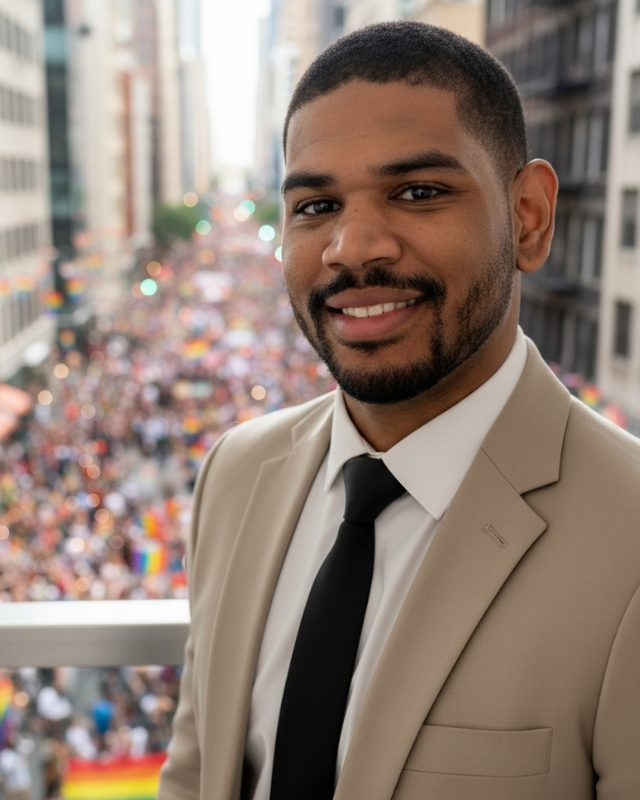
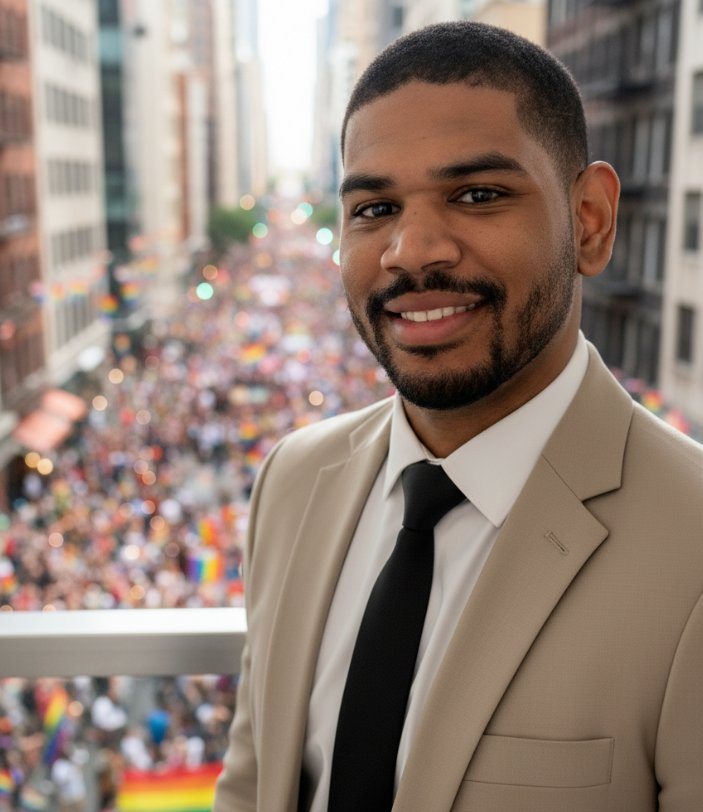
Update About Me copy, use full-size headshot, align trauma wording
- About Me on /philosophy now matches Joshua's latest About Me.md word for word
  (new therapy and hospital psychiatry history, couples section, expanded
  credentials and trauma note, new closing line)
- Headshot replaced with the uncropped original (703x812, optimized JPEG)
- Men's page: 'trauma-focused' -> 'trauma-informed' to match the trauma note

Claude-Session: https://claude.ai/code/session_012eU98KAtg2tEvrfkn35TgC

diff --git a/pages/philosophy.tsx b/pages/philosophy.tsx
@@ -92,10 +92,10 @@ export default function PhilosophyPage() {
                   <Image
                     src={headshot.src}
                     alt={headshot.alt}
-                    width={640}
-                    height={800}
+                    width={703}
+                    height={812}
                     sizes="256px"
-                    className="h-80 w-64 border-2 border-[#CBB26A] object-cover"
+                    className="h-auto w-64 border-2 border-[#CBB26A]"
                   />
                 ) : (
                   <div className="flex h-80 w-64 items-center justify-center border-2 border-[#3E6830] bg-[#0A1D08]">
@@ -120,10 +120,14 @@ export default function PhilosophyPage() {
                 <p>I watched her do it, and honestly, it scared me. I saw how much she gave. I didn&apos;t want that for myself.</p>
                 <p>But in high school, it started happening to me anyway. People kept telling me things. Not because I could fix anything. I couldn&apos;t. They told me because I listened, and they could feel that I was really hearing them.</p>
                 <p>So I tried to go another way. In undergrad I studied recreation therapy. In grad school I went into recreation management. For my thesis, I studied bathhouses and sexually transmitted infections among gay men and men who have sex with men.</p>
-                <p>I wanted to include trans men in that study, and I wasn&apos;t able to. That stayed with me. It&apos;s part of why I make room for the people that research and therapy so often leave out.</p>
+                <p>I wanted to include trans men in that study, and I wasn&apos;t able to. That stayed with me. It&apos;s part of why I make room for the people who research and therapy so often leave out.</p>
                 <p>My grad advisor read my work and said, &quot;This isn&apos;t recreation. This is social work.&quot;</p>
                 <p>I finished that degree anyway. But my advisor&apos;s words stuck with me, along with everyone else who had called me a social worker long before I was ready to hear it. At the end of my grad program, I finally listened. I went to social work school.</p>
                 <p>So social work doesn&apos;t feel like a job to me. It&apos;s not what I do. It&apos;s who I am. I think I got that from my mom.</p>
+                <p>What I do is therapy, and I don&apos;t take that lightly. It&apos;s a responsibility. When we work together, I&apos;m building a professional relationship with you, one you can lean on for support.</p>
+                <p>After social work school, I spent nine years in hospital psychiatry: six with teens, and three with people of all ages. I worked with people living with some of the most serious mental health conditions, like schizophrenia, bipolar disorder, major depression, borderline personality disorder, and severe anxiety. I sat with people having thoughts of suicide, thoughts of hurting others, and active psychosis.</p>
+                <p>That shapes how I show up now. Hard thoughts don&apos;t scare me. If you tell me something heavy, I won&apos;t flinch or panic. I&apos;ll stay with you, and we&apos;ll figure out together what you need.</p>
+                <p>For the last three years, I&apos;ve worked in outpatient therapy with queer people and queer couples. That&apos;s where you&apos;ll find me now.</p>
               </div>
             </div>
             <div>
@@ -143,20 +147,29 @@ export default function PhilosophyPage() {
                 <p>In undergrad, I did my recreation therapy internship at a substance use treatment center. In grad school, while I studied recreation management, I worked at a substance use treatment center. And in social work school, my internship was at one too. Almost all of my training happened in substance use care.</p>
                 <p>I still do this work today. I see people at every stage:</p>
                 <ul className="list-disc space-y-2 pl-6">
-                  <li>People who are using right now and aren&apos;t sure they want to stop</li>
-                  <li>People who are thinking about quitting</li>
-                  <li>People who are in recovery</li>
+                  <li>People who are <strong className="text-[#CCDEE0]">using right now</strong> and aren&apos;t sure they want to stop</li>
+                  <li>People who are <strong className="text-[#CCDEE0]">thinking about quitting</strong></li>
+                  <li>People who are <strong className="text-[#CCDEE0]">in recovery</strong></li>
                 </ul>
                 <p>That includes chemsex. Nothing here needs a disclaimer.</p>
-                <p>You don&apos;t have to live a sober life to work with me. I understand use. Every behavior we have serves us in some way. We do it because we think it will make life better. And every behavior has a cost. So together, we look at it: Is the cost worth paying? Sometimes it is. I get that.</p>
-                <p>One thing I do ask: come to session sober. If you show up high or drunk, I&apos;ll end the session. That&apos;s not a punishment. It&apos;s the standard of care, and you just won&apos;t get much out of therapy that way. We&apos;ll pick it back up next time.</p>
+                <p>You don&apos;t have to live a sober life to work with me. I understand use, and the choices behind it. Every behavior we have serves us in some way. We do it because we think it will make life better. And every behavior has a cost. So together, we look at it: Is the cost worth paying? Sometimes it is. I get that.</p>
+                <p>One thing I do ask: come to the session sober. If you show up high or drunk, I&apos;ll end the session. That&apos;s not a punishment. It&apos;s the standard of care, and you just won&apos;t get much out of therapy that way. We&apos;ll pick it back up next session.</p>
+              </div>
+            </div>
+            <div>
+              <h3 className="mb-4 text-xl font-bold text-[#CBB26A]">Couples and relationships</h3>
+              <div className="space-y-4">
+                <p>Most of the couples I see have at least one partner with ADHD or autism. When two brains work differently, love can start to feel like a constant mix-up. One of you feels ignored. The other feels nagged. Neither of you is the problem. You&apos;re just wired differently, and no one ever showed you how to bridge that.</p>
+                <p>This is where I use Emotionally Focused Therapy (EFT) the most. We slow things down and look at the feelings and needs underneath the fights, so you can find your way back to each other.</p>
+                <p>I also welcome polyamorous relationships, with three or more partners. Your relationship is yours to design. You won&apos;t have to defend its shape in my office.</p>
+                <p>One rule in couples work: I don&apos;t keep secrets between partners. Anything you tell me may be shared with your partner or partners. If someone misses a session, I&apos;ll start the next one by asking what questions they have, and I&apos;ll ask the rest of you to answer as honestly as you can. If something important gets left out, I&apos;ll fill in the gaps. Everyone in the relationship should be able to trust what happens in the room.</p>
               </div>
             </div>
             <div>
               <h3 className="mb-4 text-xl font-bold text-[#CBB26A]">What it&apos;s like to work with me</h3>
               <div className="space-y-4">
                 <p>I&apos;m warm, I&apos;m direct, and I curse sometimes. I try to filter it, but every once in a while it slips out.</p>
-                <p>Being direct means you&apos;ll never have to guess what I&apos;m thinking. If I notice something, I&apos;ll say it: &quot;Here&apos;s what I&apos;m seeing. Here&apos;s what I&apos;m thinking.&quot; No hidden notes, no poker face. You won&apos;t have to wonder what I think of you, because I&apos;ll tell you.</p>
+                <p>Being direct means you&apos;ll never have to guess what I&apos;m thinking. If I notice something, I&apos;ll say it: <em>&quot;Here&apos;s what I&apos;m seeing. Here&apos;s what I&apos;m thinking.&quot;</em> No hidden notes, no poker face. You won&apos;t have to wonder what I think of you, because I&apos;ll tell you.</p>
                 <p>Our first session starts simple. I&apos;ll ask something like, &quot;What brings you here?&quot; And then we talk. I don&apos;t have a list of questions to get through.</p>
                 <p>Clients tell me I&apos;m a good listener. A lot of what I do is be a sounding board. You talk, and I tell you back what I&apos;m hearing, honestly and without judgment. Sometimes hearing your own thoughts from someone else is what finally makes them make sense.</p>
                 <p>Sometimes I&apos;ll suggest homework. It&apos;s really just an exercise we talked about in session. Whether you do it is up to you. If you&apos;d like to talk about it next time, great. If not, that&apos;s fine too. I won&apos;t put you on the spot or make you feel bad for forgetting. We&apos;ll just keep moving.</p>
@@ -166,14 +179,17 @@ export default function PhilosophyPage() {
               <h3 className="mb-4 text-xl font-bold text-[#CBB26A]">Credentials and training</h3>
               <div className="space-y-4">
                 <ul className="list-disc space-y-2 pl-6">
-                  <li>LCSW, Pennsylvania (CW023073)</li>
-                  <li>MSW, Rutgers University</li>
-                  <li>10+ years in practice</li>
-                  <li>Dialectical Behavior Therapy (DBT), certificate of completion. DBT builds skills for strong emotions, stress, and relationships.</li>
-                  <li>Emotionally Focused Therapy (EFT), Externship completed through the International Centre for Excellence in Emotionally Focused Therapy (ICEEFT). EFT helps people understand the feelings and needs underneath their closest relationships.</li>
-                  <li>Trauma-informed, with coursework in Eye Movement Desensitization and Reprocessing (EMDR), Internal Family Systems (IFS), and other trauma approaches</li>
+                  <li><strong className="text-[#CCDEE0]">LCSW</strong>, Pennsylvania (CW023073)</li>
+                  <li><strong className="text-[#CCDEE0]">MSW</strong>, Rutgers University (Graduated May 2014)</li>
+                  <li><strong className="text-[#CCDEE0]">10+ years</strong> in practice</li>
+                  <li><strong className="text-[#CCDEE0]">9 years in hospital psychiatry</strong>: 6 years in adolescent psychiatry and 3 years working with people of all ages</li>
+                  <li><strong className="text-[#CCDEE0]">3 years in outpatient therapy</strong> with queer individuals and couples</li>
+                  <li><strong className="text-[#CCDEE0]">Dialectical Behavior Therapy (DBT)</strong>, certificate of completion. DBT builds skills for strong emotions, stress, and relationships.</li>
+                  <li><strong className="text-[#CCDEE0]">Emotionally Focused Therapy (EFT)</strong>, Externship completed through the International Centre for Excellence in Emotionally Focused Therapy (ICEEFT). EFT helps people understand the feelings and needs underneath their closest relationships.</li>
+                  <li><strong className="text-[#CCDEE0]">Trauma-informed</strong>, with coursework in Eye Movement Desensitization and Reprocessing (EMDR), Internal Family Systems (IFS), and other trauma approaches</li>
                 </ul>
-                <p><strong className="text-[#CCDEE0]">A note on trauma.</strong> I&apos;m trauma-informed, not a trauma specialist. I work with the everyday, ongoing kinds of trauma: the slow, wearing hurt of growing up different, being misread, or never quite fitting. If you&apos;re dealing with a recent or severe trauma, I&apos;ll refer you to a trauma therapist I know and trust. When that work is done, you&apos;re welcome back with me, and we&apos;ll keep going with the rest of your life.</p>
+                <p><strong className="text-[#CCDEE0]">A note on trauma.</strong> I&apos;m trauma-informed, not a trauma specialist. I work with the everyday, ongoing kinds of trauma: the slow, wearing hurt of growing up different, being misread, or never quite fitting.</p>
+                <p>I&apos;ve worked in every level of care, from hospitals to rehab to outpatient therapy, and I respect the people who do that work. So if you need more than weekly therapy can give, I&apos;ll help you get there. That might be crisis care for thoughts of suicide or psychosis, a substance use program, or a trauma specialist. Whatever it is, my goal is the same: get you the right care, so you can come back and we can keep working together.</p>
               </div>
             </div>
             <div>
@@ -181,12 +197,12 @@ export default function PhilosophyPage() {
               <div className="space-y-4">
                 <p>Living with neurodivergence has always been a bit of a mess, and honestly, it still is. The two places I feel most at ease are in session, where I know exactly what I need to focus on, and at home, when I know there&apos;s nothing left to do but relax.</p>
                 <p>I don&apos;t have pets. I have a plant, a Monstera deliciosa.</p>
-                <p>And I don&apos;t cry, not in real life. Unless I&apos;m watching Grey&apos;s Anatomy. Then I can&apos;t stop, even if I&apos;ve seen the episode five times.</p>
+                <p>And I don&apos;t cry, not in real life. Unless I&apos;m watching <em>Grey&apos;s Anatomy</em>. Then I can&apos;t stop, even if I&apos;ve seen the episode five times.</p>
               </div>
             </div>
             </div>
             <div className="mt-10 border-t border-[#3E6830] pt-8 text-center">
-              <p className="mb-6 text-lg font-semibold text-[#CCDEE0]">If any of this sounds like you, I&apos;d like to meet you.</p>
+              <p className="mb-6 text-lg font-semibold text-[#CCDEE0]">If you think we&apos;d work well together, I&apos;d love to meet you. And if I&apos;m not the right fit, I&apos;ll gladly help you find someone who is.</p>
               <button type="button" onClick={scrollToBookingWidget} className="btn-somatic-primary">
                 Book your intake assessment
               </button>

diff --git a/pages/gay-mens-therapy-philadelphia.tsx b/pages/gay-mens-therapy-philadelphia.tsx
@@ -96,7 +96,7 @@ export default function GayMensTherapyPage() {
         <section className="mt-12 border border-[#3E6830] bg-[#153009] p-6 sm:p-8">
           <h2 className="mb-4 text-2xl font-bold text-[#CBB26A]">How We Work Together</h2>
           <p className="mb-4 text-sm leading-relaxed text-[#C0BFBC]">
-            Sessions are with Joshua Jonassaint, LCSW, and draw on DBT skills, trauma-focused and somatic work, and sex therapy, adapted for queer bodies and queer lives. Individual sessions are 50 minutes. Couples and relationship sessions are available too.
+            Sessions are with Joshua Jonassaint, LCSW, and draw on DBT skills, trauma-informed and somatic work, and sex therapy, adapted for queer bodies and queer lives. Individual sessions are 50 minutes. Couples and relationship sessions are available too.
           </p>
           <p className="text-sm leading-relaxed text-[#C0BFBC]">
             Want to read first? Start with{' '}
